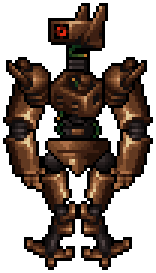
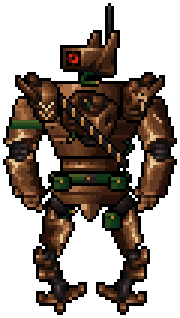
Military rework of the Quasimorph robot
- Legs swapped so kneecaps face outward; wider stance keeps toes clear
- Neck cut to ~2px
- Opposite-side limbs are re-lit counterparts, not straight mirrors:
  silhouette mirrored, shading kept lit from the upper-left, plus
  per-side wear (armband, gouge, repair rivets, knee scuff)
- Larger torso: armoured carapace around the source torso, segmented
  abdomen plates
- Military kit: brass-round bandolier, webbing belt with pouches, thigh
  rig, rank chevrons and stencilled unit number, whip antenna
- Native source parts committed so build_robot.py is reproducible

Claude-Session: https://claude.ai/code/session_01EWMNWsVqx69rUqnPkEUbPk

diff --git a/design/quasimorph_robot/build_robot.py b/design/quasimorph_robot/build_robot.py
@@ -1,180 +1,190 @@
+"""Quasimorph-style military robot, assembled at native 1x from the five source parts.
+usage: python3 build_robot.py <dir with n1..n5.png native parts> <out dir>"""
 import sys
 from PIL import Image, ImageOps
-D='/tmp/claude-0/-home-user-Balatro-and-Darkest-Dungeon-1/d08569cd-1307-511f-9e29-d7d22a0cec3e/scratchpad/'
+SRC,OUT=sys.argv[1].rstrip('/')+'/',sys.argv[2].rstrip('/')+'/'
 def H(s): return tuple(int(s[i:i+2],16) for i in (0,2,4))+(255,)
 K=H('000000')
 BR=[H(c) for c in '261209 3d1f12 4f2c19 623921 704325 84512f aa6e46 cea173 e2cc98'.split()]
+BR_EXTRA=[H('502c1a'),H('8d5936')]
 GR=[H(c) for c in '110e0e 1d1717 261e1e 352d2d 514444'.split()]
 GN=[H(c) for c in '0b2b13 10381a 2a461b 465e24'.split()]
 OR=H('c27a2d'); RD=[H(c) for c in '380b04 701508 e02a11'.split()]
-P={i:Image.open(f'{D}n{i}.png').convert('RGBA') for i in range(1,6)}
+def fam(c):
+    if c[3]==0: return None
+    if c==K: return 'k'
+    if c in BR or c in BR_EXTRA: return 'b'
+    if c in GR: return 'g'
+    return 'x'
+P={i:Image.open(f'{SRC}n{i}.png').convert('RGBA') for i in range(1,6)}
 def crop(im): return im.crop(im.getbbox())
-head=crop(P[2]); torso=crop(P[4])
-arm=crop(P[1].rotate(90,expand=True)); leg=crop(P[3].rotate(-90,expand=True)); pad=crop(P[5])
 
-W,Hh=70,100
+def twin(im):
+    """Opposite-side counterpart: mirrored silhouette, but re-lit so light still falls from
+    the upper-left (a straight flip would move every highlight to the wrong side)."""
+    M=ImageOps.mirror(im); w,h=im.size; m=M.load(); o=im.load()
+    out=M.copy(); q=out.load()
+    for y in range(h):
+        x=0
+        while x<w:
+            if m[x,y][3]==0: x+=1; continue
+            a=x
+            while x<w and m[x,y][3]: x+=1
+            b=x-1                          # run a..b in mirror == run (w-1-b)..(w-1-a) in original
+            for k in range(b-a+1):
+                src=o[w-1-b+k,y]; cur=m[a+k,y]
+                if fam(src)==fam(cur) and fam(cur) in ('b','g'): q[a+k,y]=src
+    return out
+
+def paint(im,pts,col,only=('b',)):
+    px=im.load()
+    for x,y in pts:
+        if 0<=x<im.width and 0<=y<im.height and fam(px[x,y]) in only: px[x,y]=col
+
+head=crop(P[2]); core=crop(P[4])
+armR=crop(P[1].rotate(90,expand=True));  armL=twin(armR)
+legR=crop(P[3].rotate(-90,expand=True)); legL=twin(legR)      # kneecaps face outward
+padL=crop(P[5]);                         padR=twin(padL)
+
+# --- per-side wear & markings: same model of limb, different unit history ---
+for y,c in ((8,GN[3]),(9,GN[2]),(10,GN[1])):             # olive armband, left upper arm
+    paint(armL,[(x,y) for x in range(armL.width)],c)
+paint(armL,[(5,9)],GN[3])
+paint(armR,[(8,6),(9,7),(10,8)],BR[7]); paint(armR,[(9,6),(10,7),(11,8)],BR[1])   # gouge, right upper arm
+paint(armR,[(3,24),(3,27)],GR[0])                                                    # field-repair rivets
+V=((0,0),(1,1),(2,2),(3,1),(4,0))
+for row,(lit,sh) in ((10,(H('e2cc98'),BR[1])),(13,(H("cea173"),BR[1]))):        # rank chevrons, left pad
+    paint(padL,[(8+dx,row+dy) for dx,dy in V],lit,('b','g'))
+    paint(padL,[(8+dx,row+dy+1) for dx,dy in V if (dx,dy)!=(2,2)],sh,('b','g'))
+for x,y in ((6,8),(7,8),(8,8),(8,9),(7,10),(7,11),(7,12)):                         # stencilled "7", right pad
+    paint(padR,[(x,y)],H('cea173'),('b','g'))
+paint(legL,[(10,20),(11,21)],BR[7]); paint(legL,[(11,20),(12,21)],BR[1])             # knee scuff
+
+W,Hh=90,118
 cv=Image.new('RGBA',(W,Hh)); px=cv.load()
-
 def layer_draw(pix):
-    """pix: dict (x,y)->rgba. Draw 4-neighbour black outline, then fill (sprite-style)."""
     for (x,y) in pix:
         for dx,dy in ((1,0),(-1,0),(0,1),(0,-1)):
             q=(x+dx,y+dy)
             if q not in pix and 0<=q[0]<W and 0<=q[1]<Hh: px[q]=K
     for (x,y),c in pix.items(): px[x,y]=c
 def sprite(im,x,y): cv.alpha_composite(im,(x,y))
-
 def ramp(r,v):
     v=max(0.0,min(0.999,v)); return r[int(v*len(r))]
-
-def cyl(rows, y0, light=0.32, top=0.0, ramp_=BR, gain=1.0, base=0.0):
-    """rows: list of (left,right) inclusive per row starting at y0. Cylinder shading, light upper-left."""
-    pix={}
-    n=len(rows)
+def cyl(rows,y0,light=0.32,top=0.0,gain=1.0):
+    pix={}; n=len(rows)
     for i,(l,r) in enumerate(rows):
         w=max(1,r-l)
         for x in range(l,r+1):
             t=(x-l)/w
             v=1-abs(t-light)*1.9 if t>light else 1-(light-t)*1.2
-            v=v*0.78*gain+base-0.06 - (i/n)*0.22 + top*(1-i/n)
+            v=v*0.78*gain-0.06-(i/n)*0.22+top*(1-i/n)
             if t>0.88: v-=0.15
-            pix[(x,y0+i)]=ramp(ramp_[:8] if ramp_ is BR else ramp_,v)
+            pix[(x,y0+i)]=ramp(BR[:8],v)
     return pix
-
-def taper(y0,h,c_top,w_top,c_bot,w_bot):
-    rows=[]
-    for i in range(h):
-        f=i/max(1,h-1); c=c_top+(c_bot-c_top)*f; w=w_top+(w_bot-w_top)*f
-        rows.append((round(c-w/2),round(c+w/2)-1))
-    return rows
-
-# ---------- new parts ----------
-def neck(cx,y0,h):
-    pix={}
-    for i in range(h):
-        for x in range(cx-3,cx+3):
-            t=(x-(cx-3))/5
-            band=GR[3] if i%2==0 else GR[1]
-            if t<0.2 and i%2==0: band=GR[4]
-            if t>0.8: band=GR[0]
-            pix[(x,y0+i)]=band
-    return pix
-
-def cable(points,shade=1):
-    pix={}
-    for j,(x,y) in enumerate(points):
-        pix[(x,y)]=GN[shade if j%3 else shade+1]
-    return pix
-
-def spine(cx,y0,h):
-    """exposed vertebrae column + ribbed flank housing"""
-    pix={}
-    # housing (dark metal), slightly waisted
-    rows=taper(y0,h,cx,12,cx,9)
-    for i,(l,r) in enumerate(rows):
-        for x in range(l,r+1):
-            t=(x-l)/max(1,r-l)
-            c=GR[2] if 0.15<t<0.75 else (GR[3] if t<=0.15 else GR[0])
-            if i%3==2: c=GR[0]
-            pix[(x,y0+i)]=c
-    # vertebrae: brown nubs down the middle
-    for i in range(0,h-1,3):
-        y=y0+i
-        for x in range(cx-2,cx+2):
-            t=(x-(cx-2))/3
-            pix[(x,y)]=BR[6] if t<0.3 else (BR[5] if t<0.7 else BR[3])
-        for x in range(cx-2,cx+2):
-            pix[(x,y+1)]=BR[3] if x<cx+1 else BR[1]
-    return pix
-
-def pelvis(cx,y0):
-    # inverted trapezoid plate with a codpiece guard
-    rows=[]
-    for i in range(8):
-        w=20-max(0,i-2)*2
-        rows.append((cx-w//2,cx+w//2-1))
-    pix=cyl(rows,y0,light=0.3,top=0.15)
-    # panel line across + highlight under
-    for x in range(rows[3][0]+2,rows[3][1]-1):
-        pix[(x,y0+3)]=BR[1]
-    for x in range(rows[4][0]+3,cx-1): pix[(x,y0+4)]=BR[6]
-    # center guard
-    for i in range(5):
-        for x in range(cx-3+i//2, cx+3-i//2):
-            t=(x-(cx-3))/5
-            pix[(x,y0+6+i)]=BR[7] if (t<0.35 and i<2) else (BR[5] if t<0.6 else BR[2])
-    pix[(cx-2,y0+6)]=BR[8]
-    return pix
-
 def joint(cx,cy,r):
     pix={}
     for y in range(cy-r,cy+r+1):
         for x in range(cx-r,cx+r+1):
-            d=((x-cx)**2+(y-cy)**2)**.5
-            if d<=r+0.3:
+            if ((x-cx)**2+(y-cy)**2)**.5<=r+0.3:
                 lx=((x-cx+r*0.4)**2+(y-cy+r*0.4)**2)**.5/(r*1.6)
                 pix[(x,y)]=ramp(GR,1-lx)
     return pix
 
-def thigh(cx,y0,h,side):
-    rows=taper(y0,h,cx,11,cx+side*3,8)
-    pix=cyl(rows,y0,light=0.3 if side<0 else 0.4,top=0.1)
-    # armor plate seam + rivets
-    m=y0+h//2
-    l,r=rows[h//2]
-    for x in range(l+1,r): pix[(x,m)]=BR[1]
-    for x in range(l+1,l+4): pix[(x,m+1)]=BR[6]
-    pix[(l+2,y0+2)]=GR[0]; pix[(r-2,y0+2)]=GR[0]
-    # hydraulic piston on the inner side
-    for i in range(3,h-2):
-        l,r=rows[i]; x=r+1 if side<0 else l-1
-        pix[(x,y0+i)]=GR[4] if i<h//2 else GR[2]
-        if i==h//2: pix[(x,y0+i)]=GR[0]
-    # exposed hydraulic on the inner side
+def carapace(cx,y0):
+    prof=[24,28,30,32,32,32,32,32,32,32,32,32,32,31,30,29,28,27,26,25,24,23,22,22]
+    rows=[(cx-w//2,cx-w//2+w-1) for w in prof]
+    pix=cyl(rows,y0,light=0.3,top=0.2)
+    for ry in (7,12,17):                                   # rib seams with lit lip below
+        l,r=rows[ry]
+        for x in range(l+1,r): pix[(x,y0+ry)]=BR[1]
+        for x in range(l+1,l+5): pix[(x,y0+ry+1)]=BR[6]
+    for ry in (3,9,14,19):
+        l,r=rows[ry]; pix[(l+2,y0+ry)]=GR[0]; pix[(r-2,y0+ry)]=GR[0]
     return pix
-
-def kneecap(cx,y0):
-    rows=[(cx-3,cx+2),(cx-4,cx+3),(cx-4,cx+3),(cx-3,cx+2),(cx-2,cx+1)]
-    pix=cyl(rows,y0,light=0.3,top=0.3)
-    pix[(cx-2,y0+1)]=BR[8]
+def abdomen(cx,y0):
+    pix={}
+    for i,w in enumerate((20,20,19,19,18,18,17)):
+        rows=[(cx-w//2,cx-w//2+w-1)]
+        seg=cyl(rows,0,light=0.3,top=0.25 if i%2==0 else 0.0)
+        for (x,_),c in seg.items(): pix[(x,y0+i)]=c if i%2==0 else BR[1] if x%4==0 else c
+    for i in (2,5):
+        for x in range(cx-9,cx+9):
+            if (x,y0+i) in pix: pix[(x,y0+i)]=BR[0] if x>cx+4 else BR[1]
     return pix
-
-def shin(cx,y0,h,side):
-    rows=[]
+def belt(cx,y0,w):
+    pix={}
+    for i in range(3):
+        for x in range(cx-w//2,cx-w//2+w):
+            t=(x-(cx-w//2))/w
+            pix[(x,y0+i)]=(GN[2] if t<0.4 else GN[1]) if i<2 else GN[0]
+    for x in range(cx-w//2,cx-w//2+w//2): pix[(x,y0)]=GN[3]
+    for x in range(cx-2,cx+2):                         # buckle
+        for i in range(3): pix[(x,y0+i)]=GR[3] if i==0 else GR[2]
+    pix[(cx-2,y0)]=GR[4]; pix[(cx-1,y0+1)]=OR
+    return pix
+def pouch(x0,y0,w=5,h=4):
+    pix={}
     for i in range(h):
-        f=i/(h-1)
-        w=9+ (1 if 0.15<f<0.5 else 0) - round(f*3)   # calf bulge then taper to ankle
-        o=round(side*f*1.5); rows.append((cx-w//2+o, cx-w//2+w-1+o))
-    pix=cyl(rows,y0,light=0.35,top=0.15)
-    # shin ridge highlight
-    for i in range(2,h-3):
-        l,r=rows[i]; x=l+ (r-l)*35//100
-        pix[(x,y0+i)]=BR[7] if i<h//2 else BR[6]
-    # vents
-    for k in (h//2+1,h//2+3):
-        l,r=rows[k]
-        for x in range(r-3,r): pix[(x,y0+k)]=GR[0]
+        for x in range(x0,x0+w):
+            t=(x-x0)/(w-1)
+            pix[(x,y0+i)]=GN[3] if (i==0 and t<0.6) else GN[2] if t<0.5 else GN[1] if t<0.85 else GN[0]
+    for x in range(x0,x0+w): pix[(x,y0+1)]=GN[0] if x>x0 else GN[1]      # flap edge
+    pix[(x0+w//2,y0+1)]=OR                                               # snap
     return pix
+def pelvis(cx,y0):
+    rows=[(cx-(w//2),cx-(w//2)+w-1) for w in (26,26,24,22,20,18)]
+    pix=cyl(rows,y0,light=0.3,top=0.15)
+    for x in range(rows[2][0]+2,rows[2][1]-1): pix[(x,y0+2)]=BR[1]
+    for i in range(5):
+        for x in range(cx-3+i//2,cx+3-i//2):
+            t=(x-(cx-3))/5
+            pix[(x,y0+6+i)]=BR[7] if (t<0.35 and i<2) else (BR[5] if t<0.6 else BR[2])
+    return pix
+def neck(cx,y0,h):
+    return {(x,y0+i):(GR[3] if i%2==0 else GR[1]) if x<cx+2 else GR[0] for i in range(h) for x in range(cx-3,cx+3)}
+def antenna(x,y0,h):
+    pix={(x,y0+i):GR[3] if i<h//2 else GR[2] for i in range(h)}
+    pix[(x,y0)]=GR[4]; pix[(x+1,y0+h-2)]=GR[1]; pix[(x+1,y0+h-1)]=GR[1]
+    return pix
+def bandolier(x0,y0,n):
+    pix={}
+    for t in range(n):
+        x,y=x0+t,y0+t
+        for k in range(3): pix[(x,y+k)]=GR[1] if k else GR[2]
+        if t%3==1:                                         # brass round, tip catches the light
+            pix[(x,y)]=H('cea173'); pix[(x,y+1)]=OR; pix[(x,y+2)]=OR
+            pix[(x+1,y+1)]=OR if (x+1,y+1) not in pix else pix[(x+1,y+1)]
+    return pix
+def cable(points,shade=1):
+    return {(x,y):GN[shade if j%3 else shade+1] for j,(x,y) in enumerate(points)}
 
-cx=35
-torso_x,torso_y=cx-10,24
-head_x,head_y=cx-10,2
-layer_draw(neck(cx,head_y+15,torso_y+5-(head_y+15)))
-layer_draw(spine(cx,41,10))
-sprite(leg,cx-18,52)                      # long toe points outward
-sprite(ImageOps.mirror(leg),cx,52)
-layer_draw(joint(cx-8,54,3)); layer_draw(joint(cx+8,54,3))
-layer_draw(pelvis(cx,48))
-sprite(ImageOps.mirror(arm),cx-25,torso_y+2)
-sprite(arm,cx+9,torso_y+2)
-sprite(torso,torso_x,torso_y)
-sprite(head,head_x,head_y)
-sprite(pad,cx-24,torso_y-4)
-sprite(ImageOps.mirror(pad),cx+8,torso_y-4)
-layer_draw(cable([(cx+5,42),(cx+6,43),(cx+6,44),(cx+6,45),(cx+5,46)]))
-layer_draw(cable([(cx-6,42),(cx-7,43),(cx-7,44),(cx-6,45)],0))
+# ---------------- assemble ----------------
+cx=44
+cy=30                       # carapace top
+layer_draw(antenna(cx+6,cy-26,12))
+layer_draw(neck(cx,cy-4,6))
+# legs, hips
+hip=11
+sprite(legL,cx-hip-8,cy+38); sprite(legR,cx+hip-9,cy+38)
+layer_draw(pouch(cx+hip-6,cy+43,5,5))                # thigh rig on the right leg
+layer_draw(joint(cx-hip+1,cy+39,3)); layer_draw(joint(cx+hip-1,cy+39,3))
+layer_draw(pelvis(cx,cy+34))
+layer_draw(abdomen(cx,cy+23))
+layer_draw(belt(cx,cy+30,26))
+layer_draw(pouch(cx-12,cy+31)); layer_draw(pouch(cx+7,cy+31))
+# arms behind carapace & pads
+sprite(armL,cx-29,cy+4); sprite(armR,cx+13,cy+4)
+layer_draw(carapace(cx,cy))
+sprite(core,cx-10,cy+2)
+layer_draw(bandolier(cx-13,cy+1,25))
+layer_draw(cable([(cx+12,cy+19),(cx+13,cy+20),(cx+13,cy+21),(cx+12,cy+22)],0))
+sprite(head,cx-10,cy-18)
+sprite(padL,cx-25,cy-4); sprite(padR,cx+10,cy-4)
+
 out=crop(cv); o=Image.new('RGBA',(out.width+2,out.height+2)); o.alpha_composite(out,(1,1))
-o.save(D+'robot3_1x.png')
+o.save(OUT+'robot_1x.png')
+o.resize((o.width*3,o.height*3),Image.NEAREST).save(OUT+'robot_3x.png')
 bg=Image.new('RGBA',o.size,(200,200,200,255)); bg.alpha_composite(o)
-bg.resize((o.width*6,o.height*6),Image.NEAREST).save(D+'preview3.png')
+bg.resize((o.width*6,o.height*6),Image.NEAREST).save(OUT+'robot_6x_preview.png')
 print(o.size)
